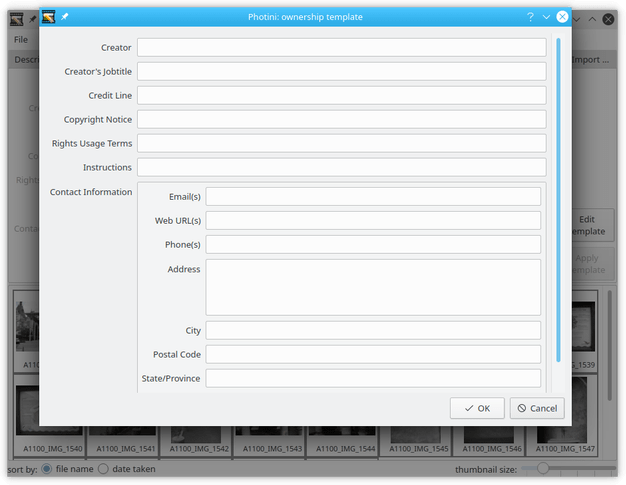
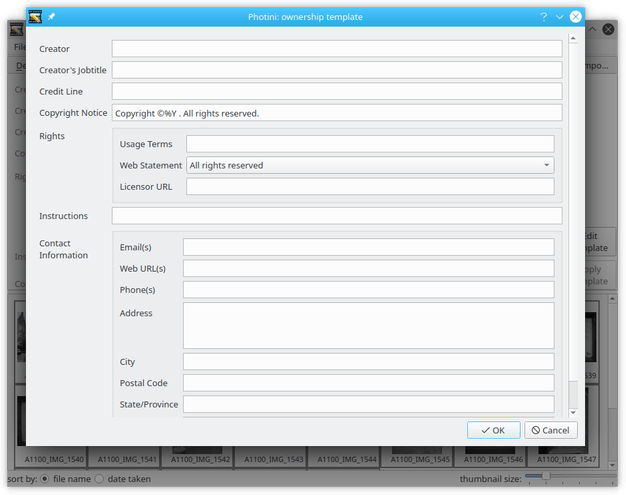
Updated documentation of ownership tab

Changed region(s): [[0.0, 0.0, 1.0, 0.9897], [0.1821, 0.7113, 0.2125, 0.7423]]

diff --git a/src/photini/__init__.py b/src/photini/__init__.py
@@ -1,4 +1,4 @@
 """Full documentation is at https://photini.readthedocs.io/"""
 
 __version__ = '2022.3.0'
-build = '2027 (bf0718a)'
+build = '2028 (8246f7a)'

diff --git a/src/doc/manual/ownership_metadata.rst b/src/doc/manual/ownership_metadata.rst
@@ -1,5 +1,5 @@
 .. This is part of the Photini documentation.
-   Copyright (C)  2021  Jim Easterbrook.
+   Copyright (C)  2021-22  Jim Easterbrook.
    See the file ../DOC_LICENSE.txt for copying condidions.
 
 Ownership metadata
@@ -26,6 +26,15 @@ This is probably only useful in the ``Copyright Notice``, but is available for a
 
 .. image:: ../images/screenshot_203.png
 
+The ``Web Statement`` field is a drop down list of `Creative Commons`_ licences which you can extend with any other licences you use.
+The widget's context menu allows you to visit any of the licence URLs with your web browser.
+
+Google Image Search displays the ``Creator``, ``Credit Line``, and ``Copyright Notice`` values alongside search results.
+It also uses the ``Rights`` ``Web Statement`` and ``Licensor URL`` to help people find images that can be licensed for reuse.
+See the `Quick guide to IPTC Photo Metadata and Google Images`_ for more detail.
+
+.. image:: ../images/screenshot_204.png
+
 The ``Apply template`` button copies the template data to all the selected images, setting the correct year in the ``Copyright Notice``.
 If you want to clear any of the images' existing ownership data when the template is applied, then set the corresponding template field to a single space.
 You can then add more information, or edit the existing information, in the usual way.
@@ -35,7 +44,7 @@ More information about the data fields
 
 Click on any field name below to see the IPTC definition and user notes for that field.
 Although these fields are defined in an `IPTC standard`_, they are all stored in XMP metadata.
-Most of them are also stored in "legacy" IPTC-IIM data.
+Some of them are also stored in "legacy" IPTC-IIM data.
 
 `Creator <http://www.iptc.org/std/photometadata/specification/IPTC-PhotoMetadata#creator>`_
   Usually the photographer's name.
@@ -49,6 +58,14 @@ Most of them are also stored in "legacy" IPTC-IIM data.
   Who owns the copyright.
   This shows the same information as the :doc:`descriptive_metadata` ``Copyright`` field.
 `Rights Usage Terms <http://www.iptc.org/std/photometadata/specification/IPTC-PhotoMetadata#rights-usage-terms>`_
+  Plain text summary of how the image may be reused.
+  Not stored in IPTC-IIM.
+`Rights Web Statement <http://www.iptc.org/std/photometadata/specification/IPTC-PhotoMetadata#web-statement-of-rights>`_
+  URL of a web page describing the usage rights of an image.
+  `All rights reserved`_ is shown for any image with no URL set.
+  Not stored in IPTC-IIM.
+`Rights Licensor URL <http://www.iptc.org/std/photometadata/specification/IPTC-PhotoMetadata#licensor>`_
+  URL of a person or company who can grant a right to reuse the image.
   Not stored in IPTC-IIM.
 `Instructions <http://www.iptc.org/std/photometadata/specification/IPTC-PhotoMetadata#instructions>`_
   Notes to a publisher of the image.
@@ -56,6 +73,11 @@ Most of them are also stored in "legacy" IPTC-IIM data.
   Only the `Address <http://www.iptc.org/std/photometadata/specification/IPTC-PhotoMetadata#address>`_ is stored in IPTC-IIM.
   Multiple email addresses, URLs, or phone numbers should be separated by commas.
 
-
-.. _IPTC standard:            http://www.iptc.org/std/photometadata/specification/IPTC-PhotoMetadata
-.. _Python strftime function: https://docs.python.org/3.6/library/datetime.html#strftime-strptime-behavior
+.. _All rights reserved: https://en.wikipedia.org/wiki/All_rights_reserved
+.. _Creative Commons: https://creativecommons.org/licenses/
+.. _IPTC standard:
+    http://www.iptc.org/std/photometadata/specification/IPTC-PhotoMetadata
+.. _Python strftime function:
+    https://docs.python.org/3.6/library/datetime.html#strftime-strptime-behavior
+.. _Quick guide to IPTC Photo Metadata and Google Images:
+    https://iptc.org/standards/photo-metadata/quick-guide-to-iptc-photo-metadata-and-google-images/
